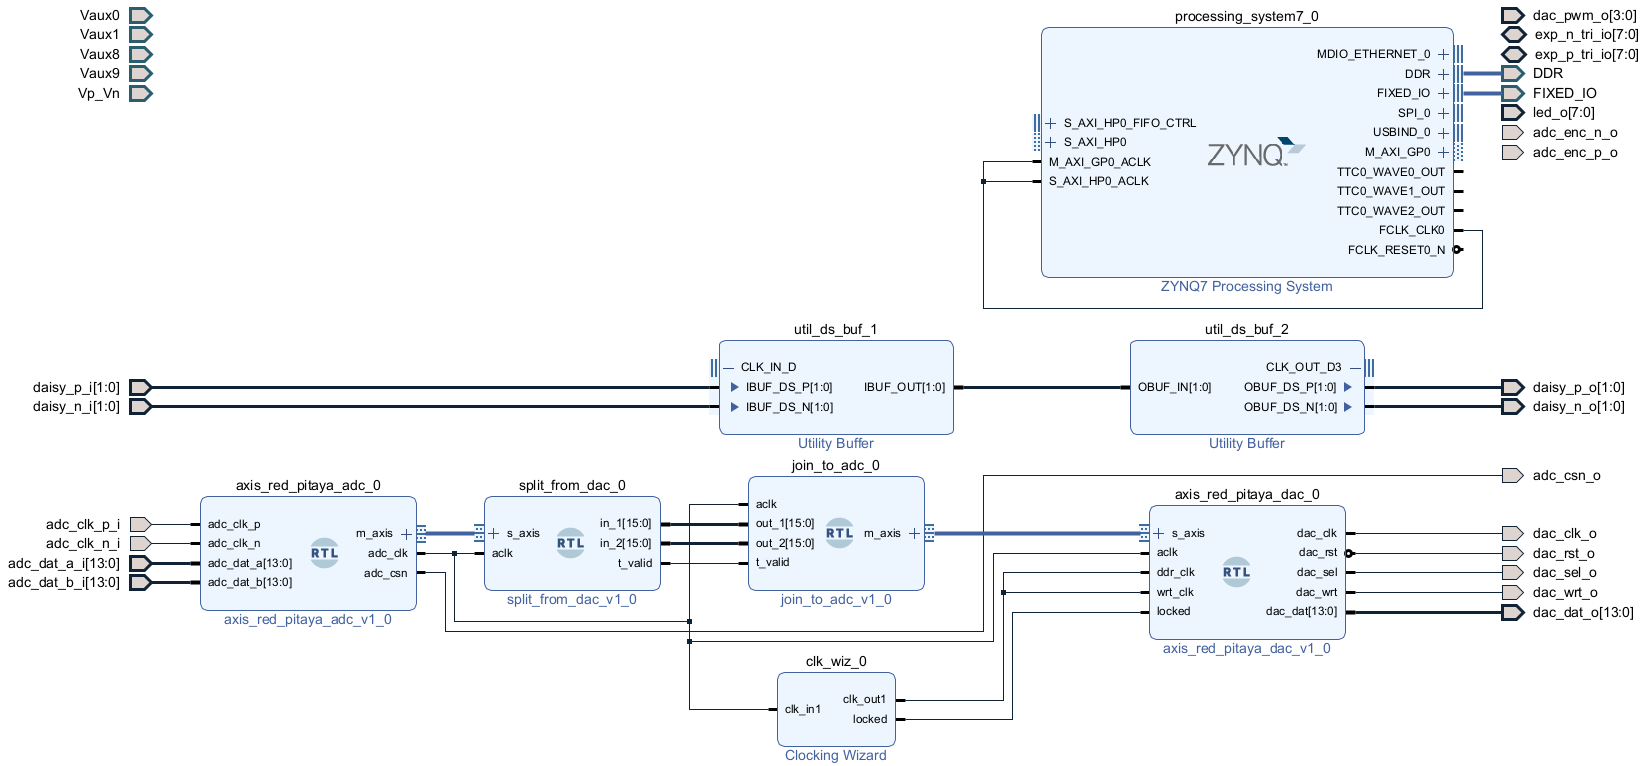
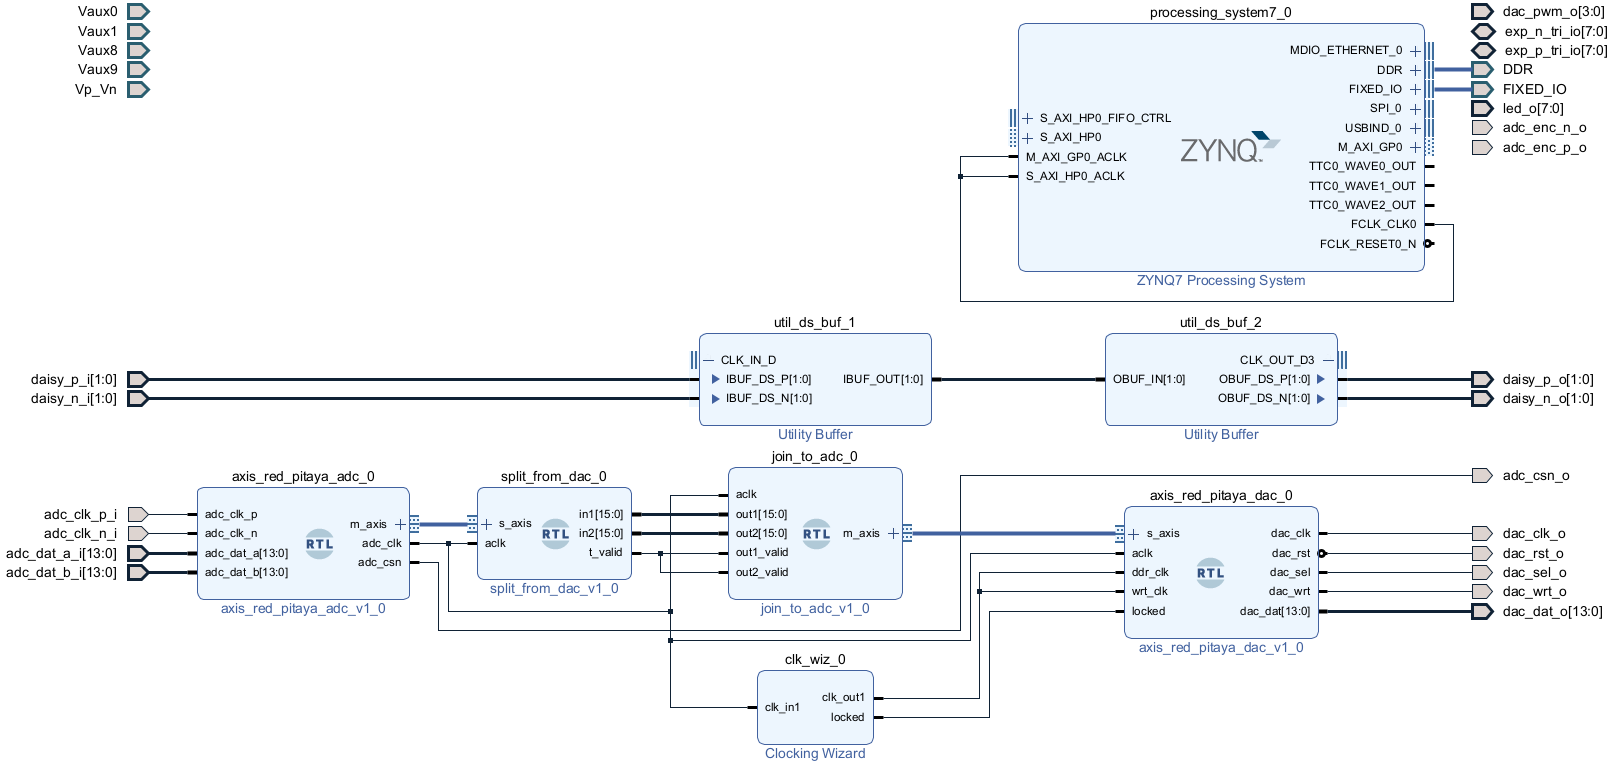
Updated splitjoined to have two tvalids for individual outputs

diff --git a/Tutorials/FILTER_SimpleFIR/README.md b/Tutorials/FILTER_SimpleFIR/README.md
@@ -69,6 +69,12 @@ In fact, we want the Fourier transform of our kernel to be the rect function, wh
 
 Choosing kernels can be a complicated affair. Depending on your requirements, you may care about how sharply the filter falls to zero, how flat it is, how many coefficients your FPGA hardware will let you have in your $h_j$, and many more things besides. For simple applications however you don't have to worry too much. There are many pre-made calculators both online and in programming languages like Python and MATLAB where you can just say that you want a low/high/band-pass filter and what the cut-offs should be, and they will give you a kernel $h_k$ that is good enough.
 
+### Filter complexity
+
+Suppose we build a block in Vivado to perform filtering operations. The Red Pitaya clock operates at 125MHz, which gives the speed at which the system can perform basic operations. Data coming in from the analog to digital converters is sampled at 125MHz. If we want to filter this data, it means that the filter only has one single clock cycle to implement all the filtering operations on each sample. This necessarily limits the complexity of the filter that can be applied. In practice we've found that for data sampled at 125MHz, the maximum number of coefficients a filter can have is a little over a hundred. This limits the sharpness of filter that can be achieved.
+
+Vivado's blocks can implement filters with up to a thousand coefficients, which can let you implement very sharp filters. However to do this we need to reduce the sampling rate of our data. If for example data is sampled at 1.25MHz, then the Red Pitaya has a hundred clock cycles to filter each data sample. However this comes with the tradeoff that you can only access and filter frequencies which are one-half of the reduced sampling frequency. We'll cover downsampling in [ADD THIS]().
+
 ### Truncating LSBs
 
 The filter works by adding together linear combinations of values of the input at different times. Depending on the filter coefficients you choose, it is possible for the output to thus be longer than a 16 bit number.
@@ -79,9 +85,9 @@ We only care about the lowest 14 bits. If the signal gets bigger the DAC will be
 
 ## Block design
 
-Begin by creating the block design from [splitting and joining AXIS data](/Tutorials/PROJ_IOSplittingJoining). Make sure you remember to *Generate Output Products* and *Create HDL Wrapper*.
+Begin by creating the block design from [splitting and joining AXIS data](/Tutorials/PROJ_IOSplittingJoining). Make sure you remember to *Generate Output Products* and *Create HDL Wrapper*. Then, disconnect the lines betwen *in1,in2* and *out1,out2*, and also the connections from *tvalid* to *out1_valid,out2_valid*. We will insert our filter between these.
 
-![The block design from the input signal feedthrough tutorial](img_FeedthroughSplitJoined.png)
+![The block design from the input signal feedthrough tutorial](img_BaseSplitDesign.png)
 
 ### Design an FIR Filter
 
@@ -110,7 +116,7 @@ Scrolling down, you'll under *Filter code* a list of numbers. These give you the
 
 #### Input coefficients
 
-The Vivado block that implements an FIR filter is called the *FIR Compiler*. Add one of these to the design. Double click to edit this. Paste the filter coefficients into the *Coefficient Vector* box. On the left, click on the *Freq. Response* tab, and it will visualise the gain of the filter.
+The Vivado block that implements an FIR filter is called the *FIR Compiler*. Add one of these to the design. Double click to edit this. Paste the filter coefficients into the *Coefficient Vector* box. On the left panel, click on the *Freq. Response* tab, and it will visualise the gain of the filter.
 
 ![](img_FIROptions.png)
 
@@ -119,7 +125,9 @@ The Vivado block that implements an FIR filter is called the *FIR Compiler*. Add
 
 #### Channel Specification
 
-![](img_FIRImplementation.png)
+Next go to the *Channel Specification* tab, and set the *Input Sampling Frequency* and *Clock Frequency* to 125MHz. As we mentioned earlier, this only gives the block a single clock cycle to implement the filter on each sample point, which limits the number of filter coefficients. If you've put too many coefficients for the FPGA to handle, you will get an error upon setting these values.
+
+![](img_FIRChannelSpecification.png)
 
 #### Implementation
 
@@ -159,10 +167,12 @@ So, data going through *IN1* on the Red Pitaya will now be filitered, and the re
 
 
 
-
+If you try it out, the output will be two less than the input, even in the passband. As mentioned earlier, this is because we are truncating the LSBs. 
 
 ## What's next?
 
-- A good reference on digital filtering is [Understanding Digital Signal Processing by Richard Lyons](https://www.amazon.com/Understanding-Digital-Signal-Processing-3rd/dp/0137027419).
-- In this tutorial we made a low-pass filter. Try and make a high-pass or bandpass.
-- In this tutorial we used FIR filters.  More advanced filters (*Infinite Input Response*) use feedback to achieve better performance. In certain circumstances this feedback can lead to the output continuing for ever after the input signal stops. 
+- In this tutorial we made a low-pass filter. Try and make a high-pass or bandpass. Remember that the number of filter coefficients should be around a hundred and fifty, or you will get an error.
+- The output from our FIR filter was reduced by two. You can try and correct this by adding another block, or custom Verilog code, which multiplies the output by two. However if the FIR output ever rises too high, the result will be gibberish. 
+  - You could try and write some Verilog code which takes the FIR output, multiplies by two if the result is not too large, and handles it appropriately otherwise, such as by capping the voltage.
+- To make filters which use more coefficients, or work at lower frequencies, it will be necessary to downsample the signal. To go down that route check out our [ADD THIS]().
+- If you want to read more on digital filtering, a good reference is [Understanding Digital Signal Processing by Richard Lyons](https://www.amazon.com/Understanding-Digital-Signal-Processing-3rd/dp/0137027419).

diff --git a/Tutorials/PROJ_IOSplittingJoining/README.md b/Tutorials/PROJ_IOSplittingJoining/README.md
@@ -28,7 +28,7 @@ This block joins two streams into one
 
 ## Block design
 
-Begin by creating the block design from [input signal feedthrough](/Tutorials/PROJ_IOFeedthrough). Make sure you remember to *Generate Output Products* and *Create HDL Wrapper*, and also set the wrapper for your main design as top.
+Begin by creating the block design from [input signal feedthrough](/Tutorials/PROJ_IOFeedthrough). Make sure you remember to *Generate Output Products* and *Create HDL Wrapper*, and also set the wrapper for your main design as top. However, **remove** the data connection between *m_axis* on the ADC and *s_axis* on the DAC. We'll be placing something between these.
 
 
 
@@ -36,30 +36,33 @@ Begin by creating the block design from [input signal feedthrough](/Tutorials/PR
 
 ### Add sources
 
-On the left sidebar under *Project Manager* select *Add Sources*. Choose the *Add or create design sources* radio button and press *Next*. Then use the *Add Files* button to add  `join_to_adc.v` and `split_from_dac.v`. 
+On the left sidebar under *Project Manager* select *Add Sources*. Choose the *Add or create design sources* radio button and press *Next*. Then use the *Add Files* button to add  `join_to_adc.v` and `split_from_dac.v`.  
 
 ### Connect split_from_dac
 
-Add *split_from_dac* to the block design. Connect its *m_axis* and *adc_clk* to the corresponding  
+Add *split_from_dac* to the block design. Connect its *s_axis* to the *m_axis* port on the ADC, and its clock signal *aclk* to *adc_clk*.
 
 ![](img_split_connections.png)
 
 ### Connect join_to_adc
 
-Now add *join_to_adc* to the design. Connect it to *split_from_dac* as below
+Now add *join_to_adc* to the design. Connect *out1* and *out2* to *in1* and *in2*. Connect *t_valid* to *out1_valid* and *out2_valid*, and connect *aclk* to the *adc_clk* on the ADC.
 
 ![](img_join_split_connections.png)
 
 
 
-Then drag the *m_axis* port on *join_to_adc* to the *s_axis* port on *axis_red_pitaya_dac*.
+Then connect the *m_axis* port on *join_to_adc* to the *s_axis* port on *axis_red_pitaya_dac*.
 
 
 
 The completed design should then look like:![](img_FeedthroughSplitJoined.png)
 
-Since we are just splitting and then recombining the input, this should behave just like a passthrough. Compile it and make sure it works! The fun will happen when we start filtering one of the channels.
+Since we are just splitting and then recombining the input, this should just pass input straight through to the output. Compile it and make sure it works! 
 
 ## What's next?
 
-- 
+- At the moment this circuit just passes input data straight through to the input. But now that we've split the input and output channels, we can start 
+- For the STEMLAB-14, the data from the ADCs is 14 bit. However these are sign-padded to 16 bits, and we keep the padding bits when we split and join the data. There are two reasons for this. 
+  - Firstly many Vivado blocks work with a whole number of bytes by default (for example the [DDS Compiler](/Tutorials/PROJ_IOSignalGeneration)), so we have to work with sixteen bits anyway.
+  - Secondly Red Pitaya [also has a model](https://redpitaya.com/product/sdrlab-122-16-standard-kit/) with 16 bits on the ADC (though still only 14 bits on the DAC). Including the extra bits on our splitting and joining code will reduce friction if you also want to run this code on the 16 bit model.
